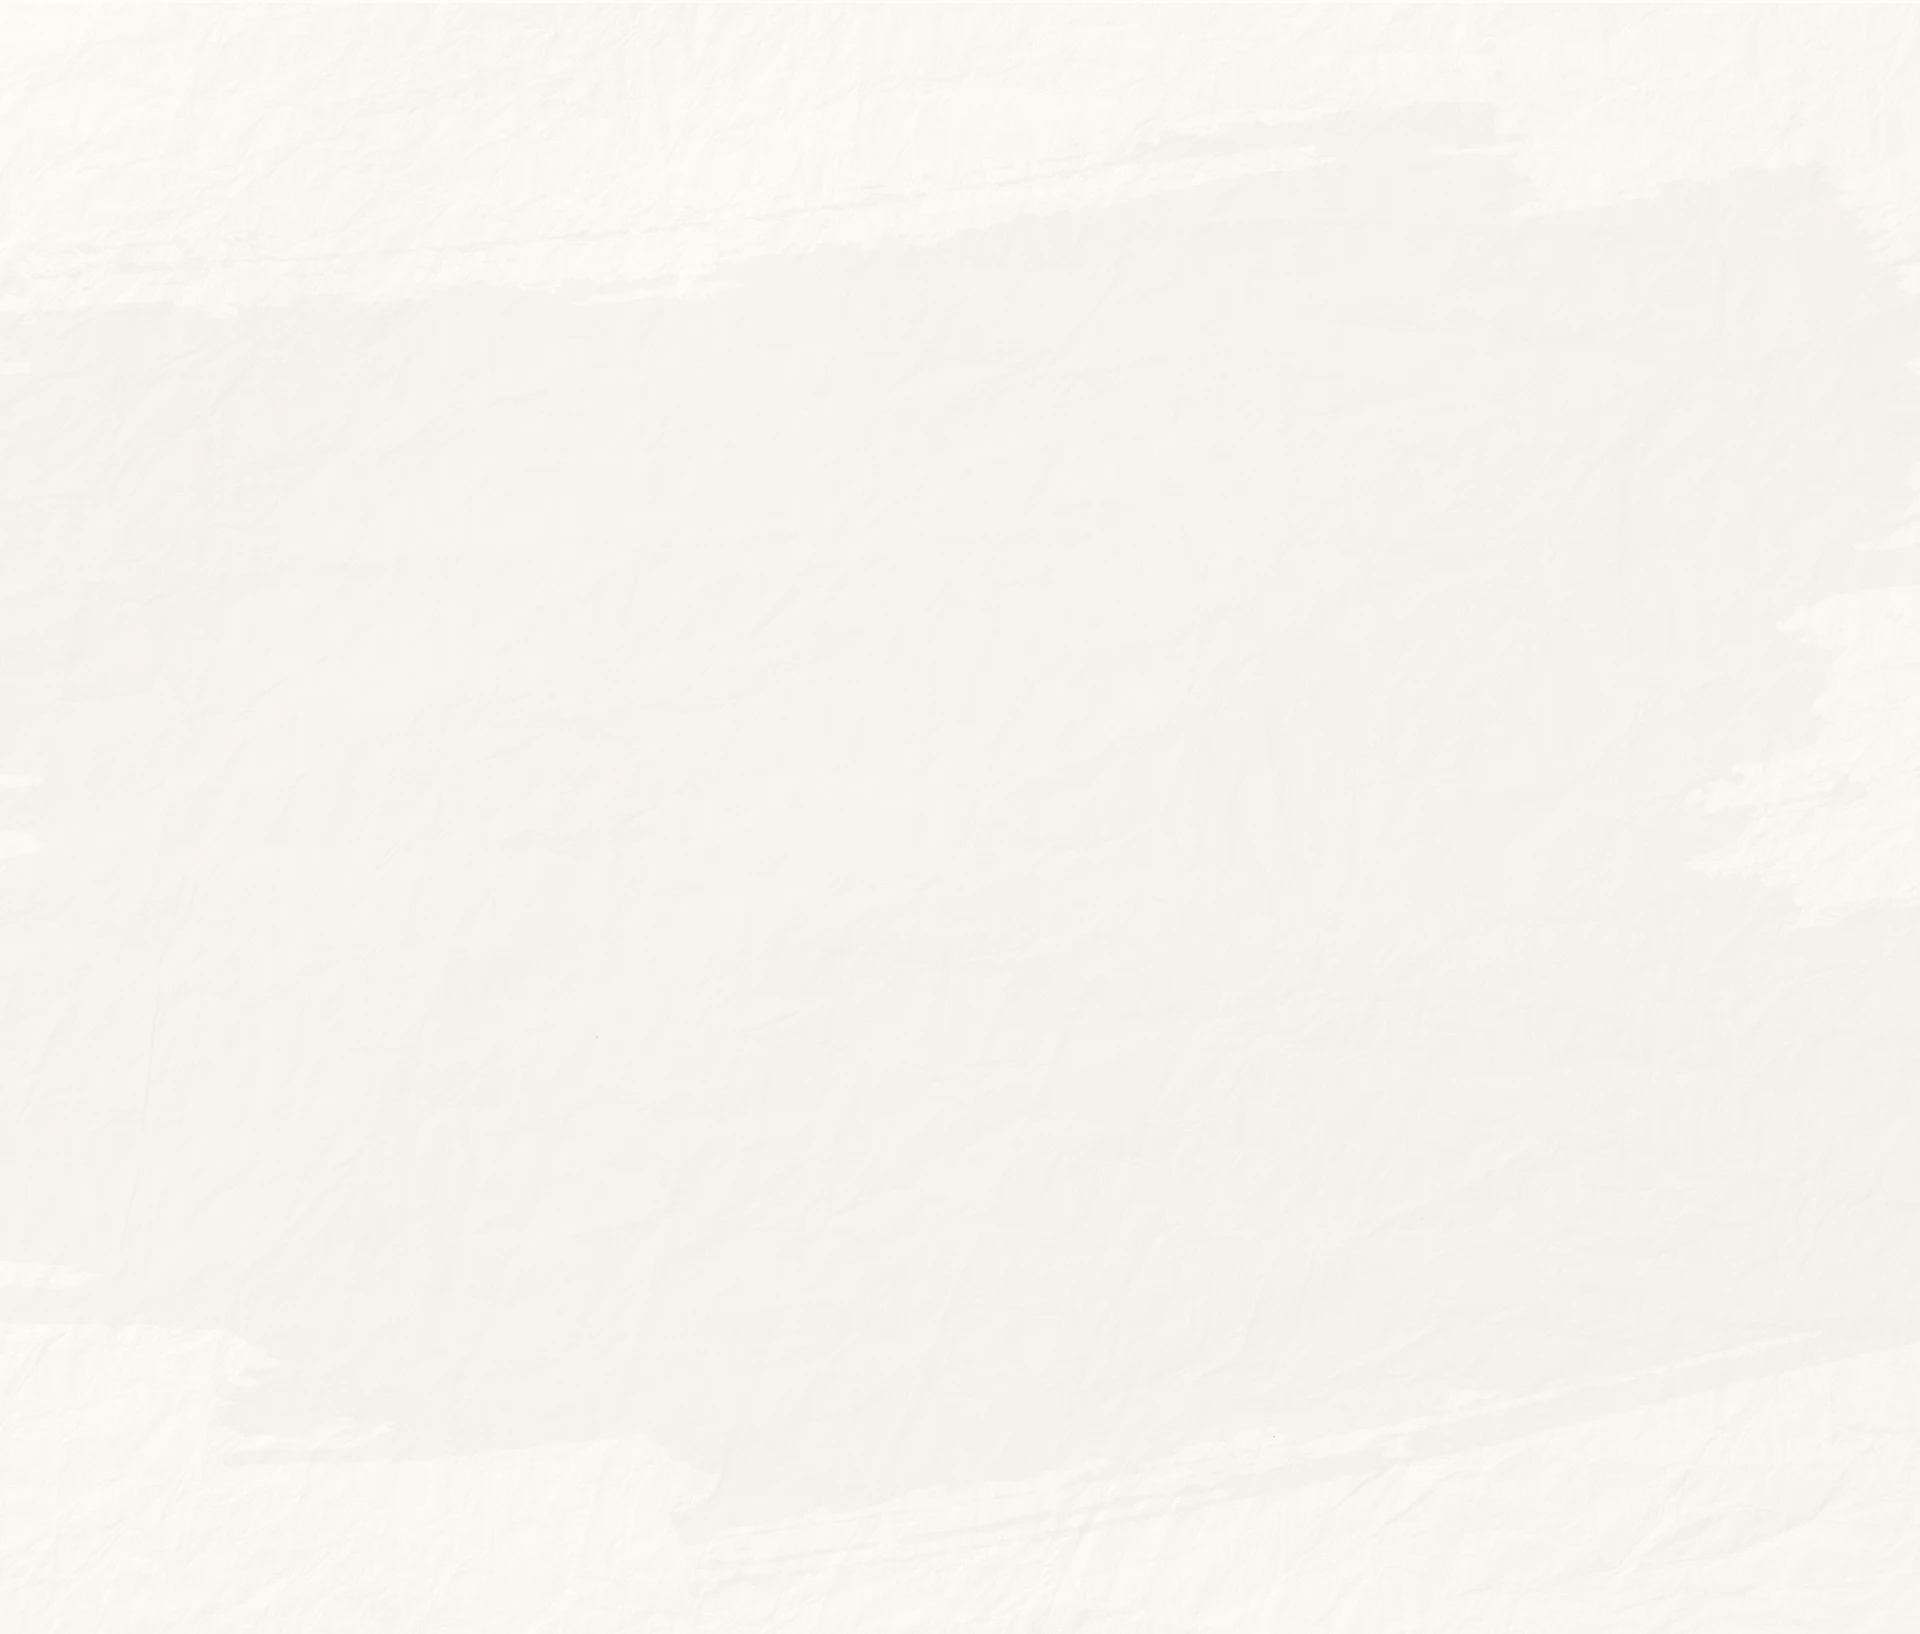
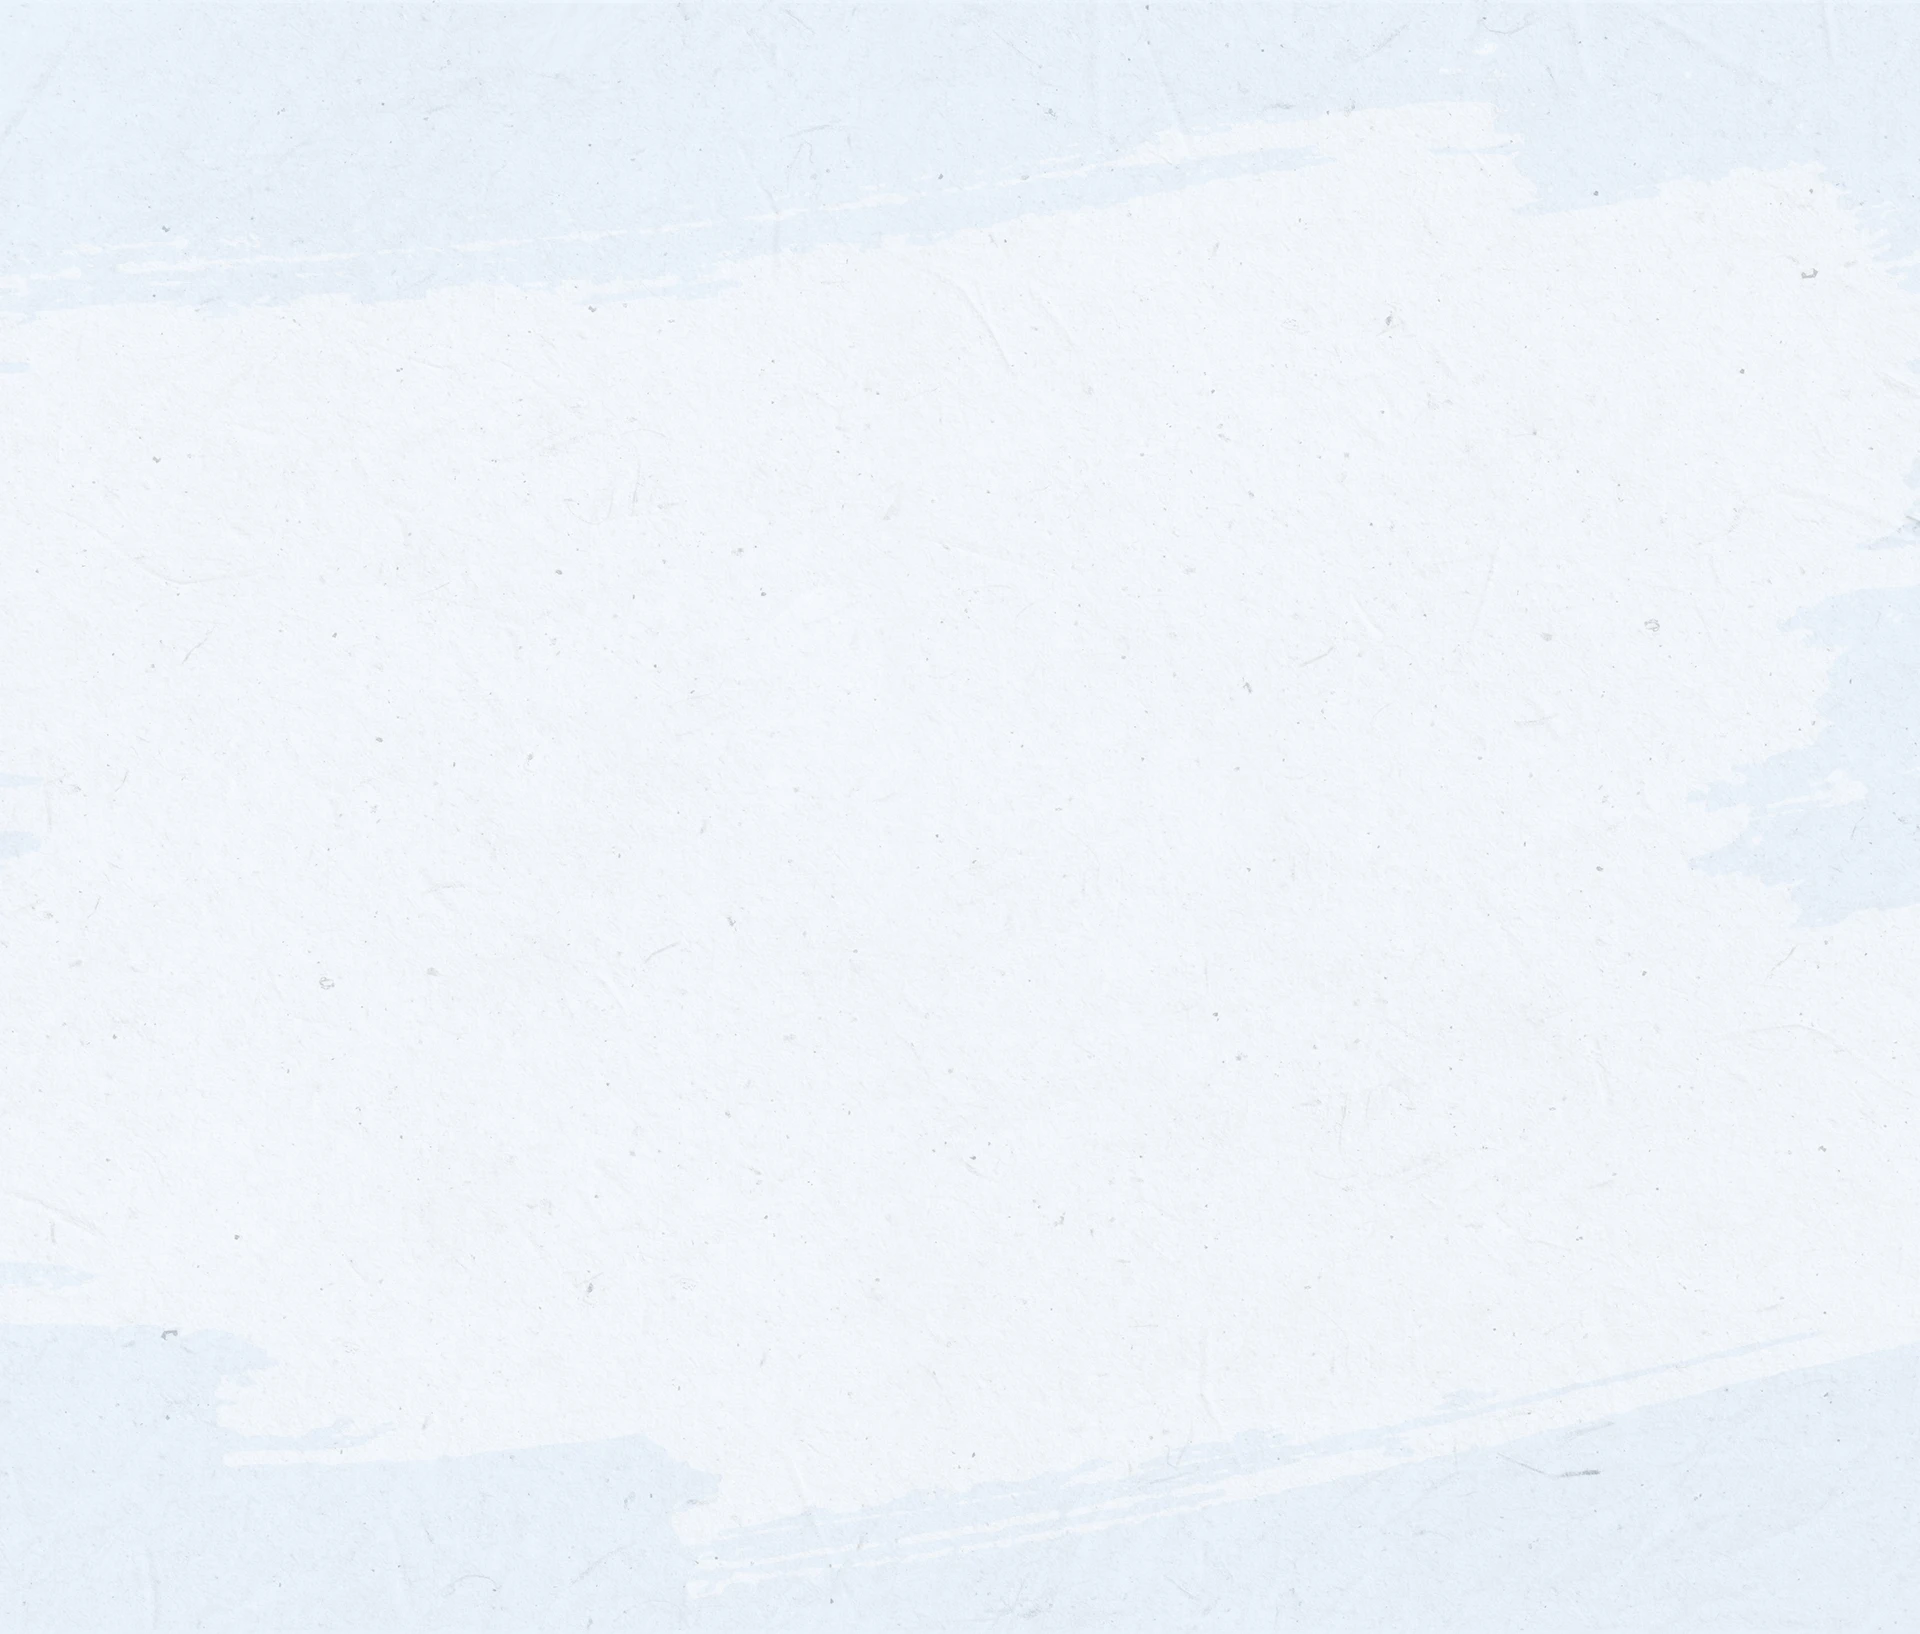
Fix - Update take questions page

Changed region(s): [[0.8125, 0.8739, 0.8438, 0.9051], [0.5312, 0.9676, 0.5625, 0.9988]]

diff --git a/public/assets/css/user/page4.css b/public/assets/css/user/page4.css
@@ -19,6 +19,7 @@
 
 .banner {
     z-index: 3;
+    display: none;
 }
 
 .region-map {
@@ -37,7 +38,7 @@
 .region-map__guide {
     width: 50.4em;
     position: absolute;
-    top: 26.25em;
+    top: 13.25em;
     text-align: center;
     left: 33rem;
 }
@@ -263,7 +264,7 @@
 
 .knowledge-quiz-list {
     position: relative;
-    margin: 3.9em 5.9em 0 5.1em;
+    margin: 3.9em 3.9em 0 3.1em;
 }
 
 .knowledge-question {
@@ -280,7 +281,7 @@
     align-items: flex-start;
     gap: 0.55em;
     margin-bottom: 0.45em;
-    color: #7b351b;
+    color: #3681cc;
     font-size: 1em;
     font-weight: 650;
     line-height: 1.25;
@@ -301,7 +302,7 @@
     align-items: flex-start;
     gap: 0.8em;
     margin: 0 0 0.45em 2.1em;
-    color: #7b351b;
+    color: #3681cc;
     font-size: 1em;
     line-height: 1.2;
 }
@@ -319,7 +320,7 @@
 }
 
 .knowledge-choice > input:checked {
-    background: #f12613 url("./../../images/form/mark-stick.png") center / 100% 100% no-repeat;
+    background: #e14374 url("./../../images/form/mark-hong.webp") center / 100% 100% no-repeat;
 }
 
 .knowledge-choice > input:focus-visible {
@@ -369,7 +370,7 @@
     padding: 0.55em 0.7em;
     border: 0;
     border-radius: 0.5em;
-    background-color: #faf2e7;
+    background-color: #fff;
     color: #7b351b;
     font: inherit;
     line-height: 1.3;
@@ -435,7 +436,7 @@
     }
 
     .knowledge-question {
-        margin-bottom: 1.25em;
+        margin-bottom: 2.25em;
         font-size: 2.8em;
     }
 
@@ -469,7 +470,7 @@
     }
 
     .knowledge-essay-list {
-        margin: 9em 0 0;
+        margin: 12.5em 0 0;
     }
 
     .knowledge-essay {
@@ -512,7 +513,7 @@
     aspect-ratio: 1357 / 683;
     position: relative;
     margin: 0;
-    padding: 12.4em 27.5em 0;
+    padding: 17.4em 27.5em 0;
     background: url("./../../images/page-4/section-4/box-text-1-2.webp") center / 100% 100% no-repeat;
 }
 
@@ -538,9 +539,9 @@
 
 .open-question-title > span {
     position: relative;
-    left: 0.425em;
-    top: 0.225em;
-    font-size: 4em;
+    left: 0.025em;
+    top: 0.125em;
+    font-size: 4.5em;
 }
 
 .open-question-list {
@@ -554,6 +555,10 @@
     font-size: 2.4em;
 }
 
+.open-question.open-question--single .open-question-choice {
+    margin: 0 0 0.45em 0;
+}
+
 .open-question + .open-question {
     margin-top: 1.25em;
 }
@@ -564,7 +569,7 @@
     align-items: flex-start;
     gap: 0.55em;
     margin: 0 0 0.45em;
-    color: #7b351b;
+    color: #ee5987;
     font-size: 1em;
     font-weight: 650;
     line-height: 1.25;
@@ -585,7 +590,7 @@
     align-items: flex-start;
     gap: 0.8em;
     margin: 0 0 0.45em 2.1em;
-    color: #7b351b;
+    color: #ee5987;
     font-size: 0.95em;
     line-height: 1.2;
 }
@@ -599,11 +604,11 @@
     appearance: none;
     border: 0;
     border-radius: 50%;
-    background: #fff;
+    background: #ffe6f3;
 }
 
 .open-question-choice > input:checked {
-    background: #f12613 url("./../../images/form/mark-stick.png") center / 100% 100% no-repeat;
+    background: #e14374 url("./../../images/form/mark-hong.webp") center / 100% 100% no-repeat;
 }
 
 .open-question-choice > input:focus-visible {

diff --git a/public/assets/css/user/responsive.css b/public/assets/css/user/responsive.css
@@ -1062,6 +1062,30 @@
         width: 45%;
         height: 2px;
     }
+
+    .open-question-section.custom-css {
+        aspect-ratio: 1080 / 1200;
+    }
+
+    .open-question-section .open-question-form {
+        aspect-ratio: initial;
+        margin-top: 17.3em;
+        padding: 17em 12.8em 24em;
+    }
+
+    .page4-next-section.custom-css  {
+        text-align: center;
+        align-items: center;
+        justify-content: center;
+    }
+
+    .open-question-choice > span {
+        font-size: 0.65em;
+    }
+
+    .open-question__copy {
+        font-size: 0.9em;
+    }
 }
 
 @media (max-width: 575.98px) {
@@ -1107,6 +1131,23 @@
     .section-register {
         padding: 24vw 0 10vw;
     }
+
+    .open-question-section.custom-css {
+        aspect-ratio: 1080 / 1200;
+    }
+
+    .open-question-section .open-question-form {
+        aspect-ratio: initial;
+        margin-top: 17.3em;
+        padding: 18em 12.8em 25em;
+    }
+
+    .page4-next-section.custom-css  {
+        text-align: center;
+        align-items: center;
+        justify-content: center;
+    }
+
 }
 
 @media (max-width: 480px) {}

diff --git a/app/Views/take-survey/detail-questions.php b/app/Views/take-survey/detail-questions.php
@@ -147,7 +147,7 @@
     <img class="knowledge-arrow" src="<?= assets('images/page-4/section-3/mui-ten.webp') ?>" alt="" />
 </section>
 
-<section class="open-question-section" aria-labelledby="open-question-title">
+<section class="open-question-section custom-css" aria-labelledby="open-question-title">
     <form class="open-question-form" id="open-question-form" action="#" method="post" novalidate>
         <h2 class="open-question-title" id="open-question-title">
             <span>CÂU HỎI MỞ</span>
@@ -157,6 +157,7 @@
             <?php if ($mainOpenId): ?>
                 <?php
                 $openCount = 1;
+                $hasMultipleOpen = count($openQuestions) > 1;
                 foreach ($openQuestions as $q):
                     $savedAns = null;
                     foreach ($openSavedAnswers as $ans) {
@@ -169,9 +170,11 @@
                     $savedOptionIds = $savedAns['selected_option_ids'] ?? [];
                     $savedCustomTexts = $savedAns['option_custom_texts'] ?? [];
                     ?>
-                    <div class="open-question" role="group" data-question-id="<?= (int)$q['id'] ?>" data-question-type="<?= e($q['type']) ?>" data-quiz-type="open" aria-labelledby="open-question-<?= (int)$q['id'] ?>">
+                    <div class="open-question <?= $hasMultipleOpen ? 'open-question--multiple' : 'open-question--single' ?>" role="group" data-question-id="<?= (int)$q['id'] ?>" data-question-type="<?= e($q['type']) ?>" data-quiz-type="open" aria-labelledby="open-question-<?= (int)$q['id'] ?>">
                         <p class="open-question__heading" id="open-question-<?= (int)$q['id'] ?>">
-                            <span class="open-question__number"><?= $openCount++ ?>.</span>
+                            <?php if ($hasMultipleOpen): ?>
+                                <span class="open-question__number"><?= $openCount++ ?>.</span>
+                            <?php endif; ?>
                             <span class="open-question__copy"><?= e($q['question_text']) ?></span>
                         </p>
 
@@ -278,7 +281,7 @@
     </form>
 </section>
 
-<section class="page4-next-section" aria-label="Tiếp tục">
+<section class="page4-next-section custom-css" aria-label="Tiếp tục">
     <?php if ($mainQuizId || $mainOpenId): ?>
         <button class="page4-next-button" id="dynamic-next-button" type="button">
             <span>TIẾP THEO</span>
